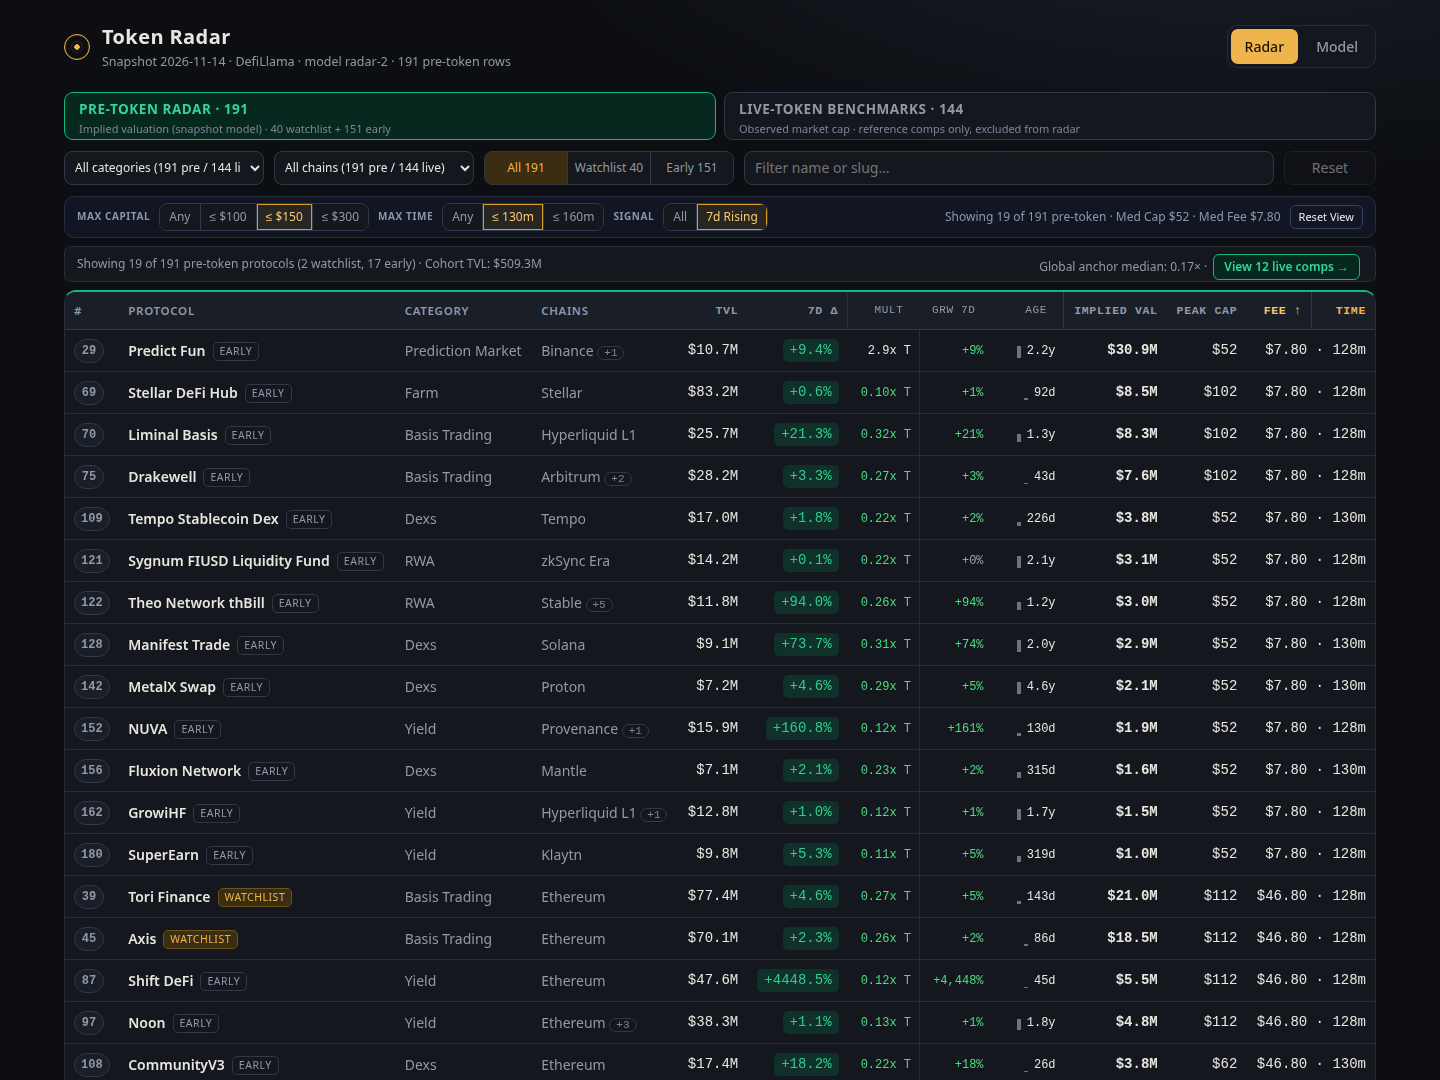
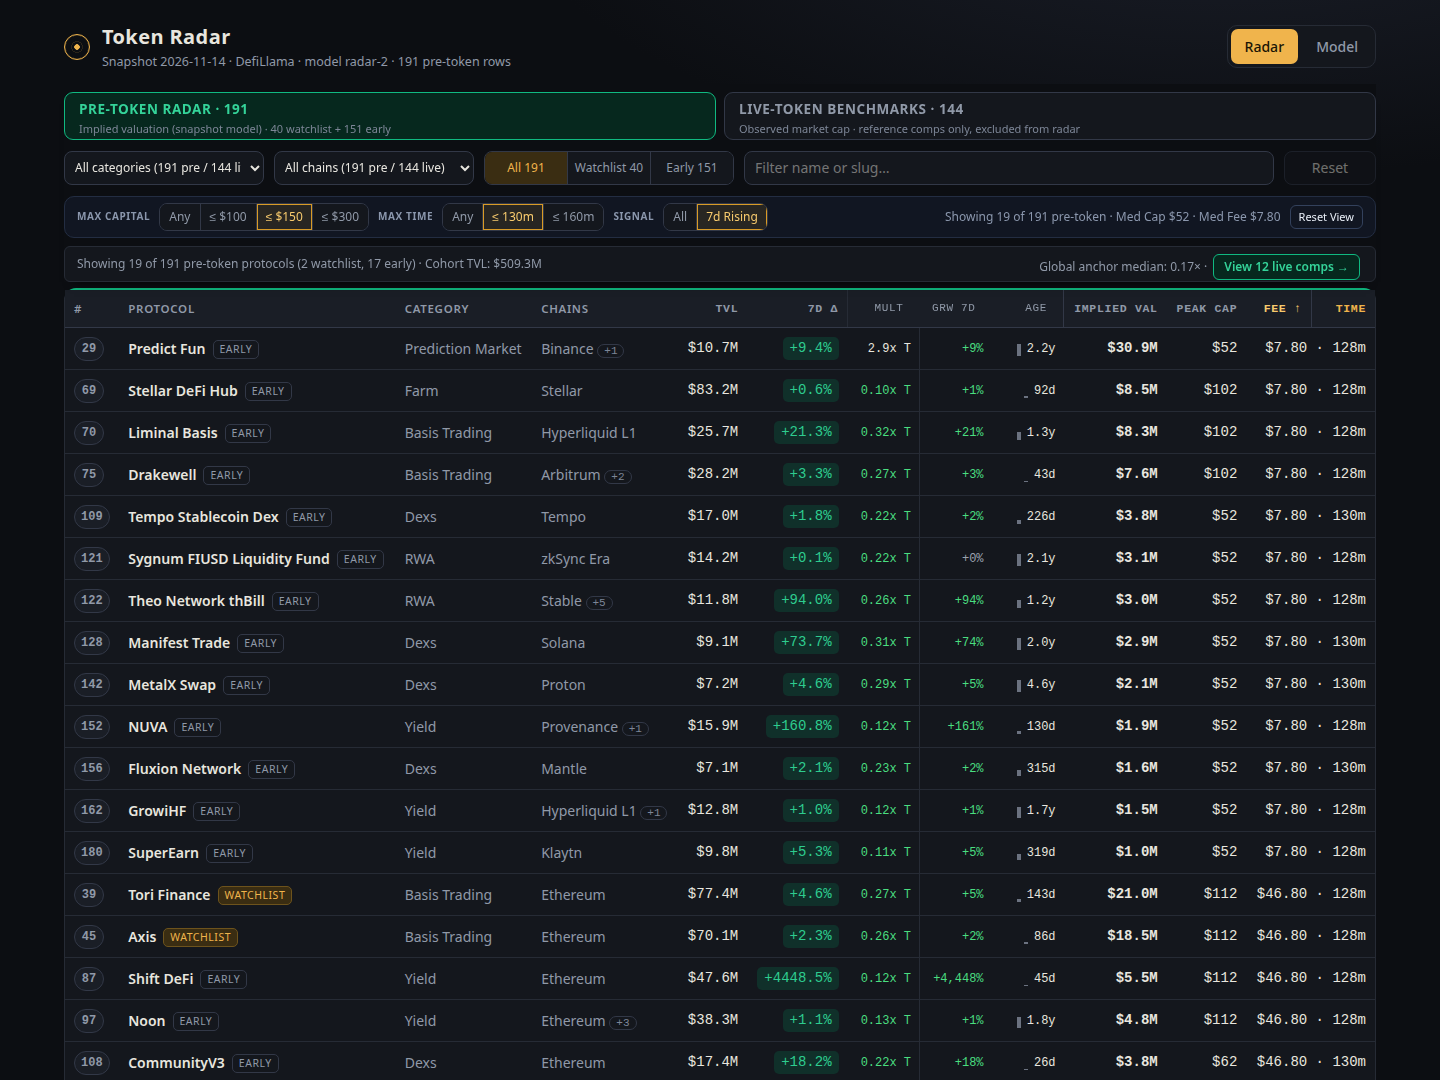
Dashboard v10: sticky header/filters, keyboard navigation, visual polish

diff --git a/dashboard/app.js b/dashboard/app.js
@@ -86,7 +86,7 @@
 
   // ---------- radar: two regimes (pre / live) sharing one filter bar, never one tbody ----------
   var S0 = { cat: '', chain: '', tier: '', q: '', cap: 0, mins: 0, sig: 'all' };
-  var S = { mode: 'pre', card: '', scroll: 0, pre: { key: 'rank', dir: 'asc' }, liv: { key: 'mcap_usd', dir: 'desc' } };
+  var S = { mode: 'pre', card: '', scroll: 0, sel: { pre: '', live: '' }, pre: { key: 'rank', dir: 'asc' }, liv: { key: 'mcap_usd', dir: 'desc' } };
   Object.assign(S, S0);
   var CAPS = [[0, 'Any', 'No peak capital limit'], [100, '≤ $100', 'Peak recoverable working capital up to $100'], [150, '≤ $150', 'Peak recoverable working capital up to $150'], [300, '≤ $300', 'Peak recoverable working capital up to $300']];
   var TIMES = [[0, 'Any', 'No active execution time limit'], [130, '≤ 130m', 'Total active execution time up to 130 minutes'], [160, '≤ 160m', 'Total active execution time up to 160 minutes']];
@@ -110,19 +110,19 @@
   function resetView(all) {
     var keep = all ? {} : { cap: 1, mins: 1, sig: 1 };
     Object.keys(S0).forEach(function (k) { if (!keep[k]) S[k] = S0[k]; });
-    if (all) { S.pre = { key: 'rank', dir: 'asc' }; S.liv = { key: 'mcap_usd', dir: 'desc' }; S.card = ''; }
+    if (all) { S.pre = { key: 'rank', dir: 'asc' }; S.liv = { key: 'mcap_usd', dir: 'desc' }; S.card = ''; S.sel = { pre: '', live: '' }; }
     drawBoard();
   }
 
   function boardView() {
     var np = rows.length, nl = live.length;
-    app.innerHTML =
+    app.innerHTML = '<div class="ctl" id="ctl">' +
       '<div class="reg"><button data-m="pre" class="rp"><b>PRE-TOKEN RADAR · ' + np + '</b><small>Implied valuation (snapshot model) · ' + R.watchlist_size + ' watchlist + ' + R.extra_size + ' early</small></button>' +
       '<button data-m="live" class="rl"><b>LIVE-TOKEN BENCHMARKS · ' + nl + '</b><small>Observed market cap · reference comps only, excluded from radar</small></button></div>' +
       '<div class="bar"><select id="f-cat" aria-label="Category">' + fo(F.categories, 'All categories (' + np + ' pre / ' + nl + ' live)') + '</select>' +
       '<select id="f-chain" aria-label="Chain">' + fo(F.chains, 'All chains (' + np + ' pre / ' + nl + ' live)') + '</select>' +
       '<div class="seg" id="f-tier"></div><input id="f-q" type="search" aria-label="Search"><button id="f-reset" class="rst"></button></div>' +
-      '<div class="econ" id="econ"></div><div class="strip" id="strip"></div><div class="wrap"><table id="bt"></table></div><div id="card"></div><p class="hint" id="hint"></p>';
+      '<div class="econ" id="econ"></div><div class="strip" id="strip"></div></div><div class="wrap"><table id="bt"></table></div><div id="card"></div><p class="hint" id="hint"></p>';
     app.querySelectorAll('[data-m]').forEach(function (b) { b.onclick = function () { location.hash = b.getAttribute('data-m') === 'live' ? '#live' : '#board'; }; });
     document.getElementById('f-q').oninput = function () { S.q = this.value; drawBoard(); };
     document.getElementById('f-cat').onchange = function () { S.cat = this.value; drawBoard(); };
@@ -135,7 +135,47 @@
     };
     document.getElementById('f-tier').onclick = click; document.getElementById('econ').onclick = click;
     drawBoard();
-    document.querySelector('.wrap').scrollTop = S.scroll || 0;
+    window.scrollTo(0, S.scroll || 0);
+    var cur = S.sel[S.mode] && app.querySelector('#bt tr.sel');
+    if (cur) { cur.focus({ preventScroll: true }); cur.scrollIntoView({ block: 'nearest' }); }
+  }
+  // ---------- keyboard selection: state is a slug per regime, never a clock or random value ----------
+  function syncCtl() { var c = document.getElementById('ctl'); if (c) document.documentElement.style.setProperty('--ctlh', c.offsetHeight + 'px'); }
+  function rowsEl() { return Array.prototype.slice.call(app.querySelectorAll('#bt tbody tr[data-slug],#bt tbody tr[data-live]')); }
+  function rowKey(tr) { return tr.getAttribute('data-slug') || tr.getAttribute('data-live'); }
+  function select(tr, focus) {
+    var prev = app.querySelector('#bt tr.sel');
+    if (prev) { prev.classList.remove('sel'); prev.removeAttribute('aria-selected'); }
+    tr.classList.add('sel'); tr.setAttribute('aria-selected', 'true'); S.sel[S.mode] = rowKey(tr);
+    if (focus) { tr.focus({ preventScroll: true }); tr.scrollIntoView({ block: 'nearest' }); }
+  }
+  function openRow(tr) {
+    select(tr, 0);
+    if (tr.hasAttribute('data-live')) { S.card = tr.getAttribute('data-live'); drawBoard(); var t = app.querySelector('#bt tr.sel'); if (t) t.focus({ preventScroll: true }); return; }
+    S.scroll = window.scrollY; location.hash = '#p/' + tr.getAttribute('data-slug');
+  }
+  function onKey(e) {
+    if (e.ctrlKey || e.metaKey || e.altKey) return;
+    var t = e.target, tag = t && t.tagName, typing = tag === 'INPUT' || tag === 'SELECT' || tag === 'TEXTAREA', k = e.key;
+    var board = !!document.getElementById('bt'), q = document.getElementById('f-q');
+    if (k === 'Escape') {
+      if (location.hash.indexOf('#p/') === 0) { location.hash = '#board'; return; }
+      if (!board) return;
+      if (t === q) { if (q.value) { S.q = ''; drawBoard(); } else q.blur(); return; }
+      if (S.card) { S.card = ''; drawBoard(); }
+      return;
+    }
+    if (!board) return;
+    var list = rowsEl(), i = list.indexOf(app.querySelector('#bt tr.sel')), step = 0;
+    if (k === '/' && !typing) { e.preventDefault(); q.focus(); q.select(); return; }
+    if (t === q && k === 'ArrowDown' && list.length) { e.preventDefault(); select(list[i < 0 ? 0 : i], 1); return; }
+    if (typing) return;
+    if (k === 'ArrowDown' || k === 'j') step = 1; else if (k === 'ArrowUp' || k === 'k') step = -1;
+    else if (k === 'Home' || k === 'End') step = k === 'Home' ? -1e9 : 1e9;
+    else if (k === 'Enter' && tag !== 'BUTTON' && tag !== 'TR' && tag !== 'A' && i >= 0) { openRow(list[i]); return; }
+    if (!step || !list.length) return;
+    e.preventDefault();
+    select(list[Math.max(0, Math.min(list.length - 1, i < 0 ? (step > 0 ? 0 : list.length - 1) : i + step))], 1);
   }
   function drawBoard() {
     var pre = S.mode === 'pre', st = pre ? S.pre : S.liv, src = pre ? rows : live;
@@ -193,12 +233,10 @@
     bindSort(st);
     app.querySelectorAll('[data-clr]').forEach(function (b) { b.onclick = function () { if (b.getAttribute('data-clr') === 'chain') { S.chain = ''; drawBoard(); } else resetView(1); }; });
     app.querySelectorAll('#bt tbody tr[data-slug],#bt tbody tr[data-live]').forEach(function (tr) {
-      var go = function () {
-        if (tr.hasAttribute('data-live')) { S.card = tr.getAttribute('data-live'); drawBoard(); return; }
-        S.scroll = document.querySelector('.wrap').scrollTop; location.hash = '#p/' + tr.getAttribute('data-slug');
-      };
-      tr.onclick = go; tr.onkeydown = function (e) { if (e.key === 'Enter') go(); };
+      if (S.sel[S.mode] === rowKey(tr)) { tr.classList.add('sel'); tr.setAttribute('aria-selected', 'true'); }
+      tr.onclick = function () { openRow(tr); }; tr.onkeydown = function (e) { if (e.key === 'Enter') { e.preventDefault(); openRow(tr); } };
     });
+    syncCtl();
   }
 
   // ---------- detail: why it ranks here, execution ledger, model breakdown ----------
@@ -298,8 +336,9 @@
     else { S.mode = h === 'live' ? 'live' : 'pre'; boardView(); }
   }
   window.addEventListener('hashchange', route);
-  document.addEventListener('keydown', function (e) { if (e.key === 'Escape' && location.hash.indexOf('#p/') === 0) location.hash = '#board'; });
+  document.addEventListener('keydown', onKey);
+  window.addEventListener('resize', syncCtl);
   document.getElementById('sub').textContent = 'Snapshot ' + R.as_of + ' · ' + R.source.split(' ')[0] + ' · model ' + R.model_version + ' · ' + R.board_size + ' pre-token rows';
-  document.getElementById('foot').textContent = 'Values derive only from the snapshot. No network, no clock. Floor TVL ' + usd(R.floor_usd) + '.';
+  document.getElementById('foot').innerHTML = '<span>Values derive only from the snapshot. No network, no clock. Floor TVL ' + usd(R.floor_usd) + '.</span><span class="kbh"><kbd>↑</kbd><kbd>↓</kbd> move · <kbd>Enter</kbd> detail · <kbd>/</kbd> search · <kbd>Esc</kbd> close</span>';
   route();
 })();

diff --git a/dashboard/app.css b/dashboard/app.css
@@ -174,3 +174,24 @@ table.ledger td{padding:4px 6px;border-bottom:1px solid #1a2233;vertical-align:t
 table.ledger td.tx{color:#e8eef7}table.ledger .n{white-space:nowrap}
 table.ledger tfoot td{border-top:1px solid #2e3b56;border-bottom:0;background:#111622;font-weight:600;padding:8px 6px}
 @media(max-width:820px){.sum{grid-template-columns:repeat(2,1fr)}.whyrow{grid-template-columns:1fr}}
+
+/* v10: sticky controls, row affordances, keyboard */
+:focus-visible{outline:2px solid var(--blue);outline-offset:2px}
+tbody tr:focus-visible{outline-offset:-2px}
+.ctl{position:sticky;top:0;z-index:5;background:var(--bg);padding-top:8px;margin-top:-8px;box-shadow:0 10px 10px -10px #000c}
+.ctl .strip{margin-bottom:6px}
+.wrap{overflow-x:clip;overflow-y:visible;max-height:none;min-height:0}
+th{top:var(--ctlh,0px);z-index:2}
+tbody tr{scroll-margin-top:calc(var(--ctlh,0px) + 44px);scroll-margin-bottom:16px}
+tbody tr:hover{background:#1b2029}
+tbody tr:hover td:first-child{box-shadow:inset 3px 0 0 var(--line2)}
+tbody tr.sel,tbody tr.sel:hover{background:rgba(240,180,76,.1)}
+tbody tr.sel td:first-child,tbody tr.sel:hover td:first-child{box-shadow:inset 3px 0 0 var(--amber)}
+tbody tr.sel td.nm b{color:var(--amber)}
+td.n,td.ev{white-space:nowrap}
+.foot{display:flex;justify-content:space-between;gap:12px 24px;flex-wrap:wrap}
+.kbh{color:var(--dim);opacity:.85}
+kbd{font:11px var(--mono);border:1px solid var(--line2);border-bottom-width:2px;border-radius:4px;padding:0 5px;margin:0 2px;background:var(--panel);color:var(--mute)}
+@media(max-width:1100px){.wrap{overflow:auto;max-height:70vh}th{top:0}}
+@media(max-width:820px){.ctl{position:static;margin-top:0;box-shadow:none}.kbh{display:none}.wrap{max-height:none}}
+@media(prefers-reduced-motion:reduce){*,*::before,*::after{transition:none!important;animation:none!important;scroll-behavior:auto!important}}
